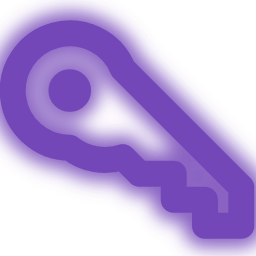
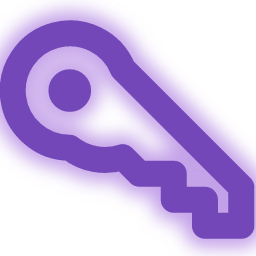
feat: glow the symbols in a lighter tone of their own hue
The halo was the same value as the glyph, so it thickened the shape instead of
lifting off it. Each symbol now glows in a brighter tone of its own colour, which
reads as an edge rather than as more glyph.

Two of the five already existed as canonical values in the design system, so they
are reused rather than invented: Power's #FFA733 is --orange-bright and Keys'
#B991E4 is --purple in site/play.html. Bitcoin, Signal and Timelock follow the
same move toward white.

Changed region(s): [[0.0, 0.0312, 1.0, 1.0], [0.0938, 0.1562, 0.9062, 0.8438]]

diff --git a/scripts/build_icons.py b/scripts/build_icons.py
@@ -23,6 +23,18 @@ ACCENT = {
     "timelock": "#17BEBB",
 }
 
+# The halo is a LIGHTER tone of the glyph's own hue, so the edge lifts off the body
+# instead of merging into it. Power and Keys already have canonical bright values in
+# the design system (--orange-bright and --purple in site/play.html); the other three
+# follow the same move toward white.
+GLOW_COLOR = {
+    "power": "#FFA733",
+    "bitcoin": "#FFE08A",
+    "keys": "#B991E4",
+    "signal": "#FFFFFF",
+    "timelock": "#5FF0EC",
+}
+
 # The original glyph bodies, lifted verbatim from the pre-redesign icons. `{c}` is the
 # accent for the halo pass and `{f}` the fill for the crisp pass, so one body renders
 # both. `scale` lets each glyph grow into the space the circle used to occupy.
@@ -102,7 +114,8 @@ os.makedirs(OUT, exist_ok=True)
 for name, (scale, body) in GLYPH.items():
     accent = ACCENT[name]
     # Halo pass: everything painted in the accent and widened, then blurred.
-    halo = body.format(f=accent, c=accent, s=accent, w=GLOW["w"], k=GLOW["k"], k2=GLOW["k2"])
+    bright = GLOW_COLOR[name]
+    halo = body.format(f=bright, c=bright, s=bright, w=GLOW["w"], k=GLOW["k"], k2=GLOW["k2"])
     # One colour, end to end: the glyph and its border are both the affinity value
     # the card already uses. The border is the blurred pass showing past the crisp
     # one, so the edge glows in the same hue instead of being outlined in a second.
@@ -113,5 +126,5 @@ for name, (scale, body) in GLYPH.items():
         alpha=alpha, blur=GLOW["blur"]
     )
     open(f"{OUT}/{name}.svg", "w", encoding="utf-8").write(svg)
-    print(f"  {name}.svg  scale {scale}  accent {accent}")
+    print(f"  {name}.svg  glyph {accent}  glow {bright}")
 print("5 icons rebuilt: original glyphs, no circle, accent glow")
